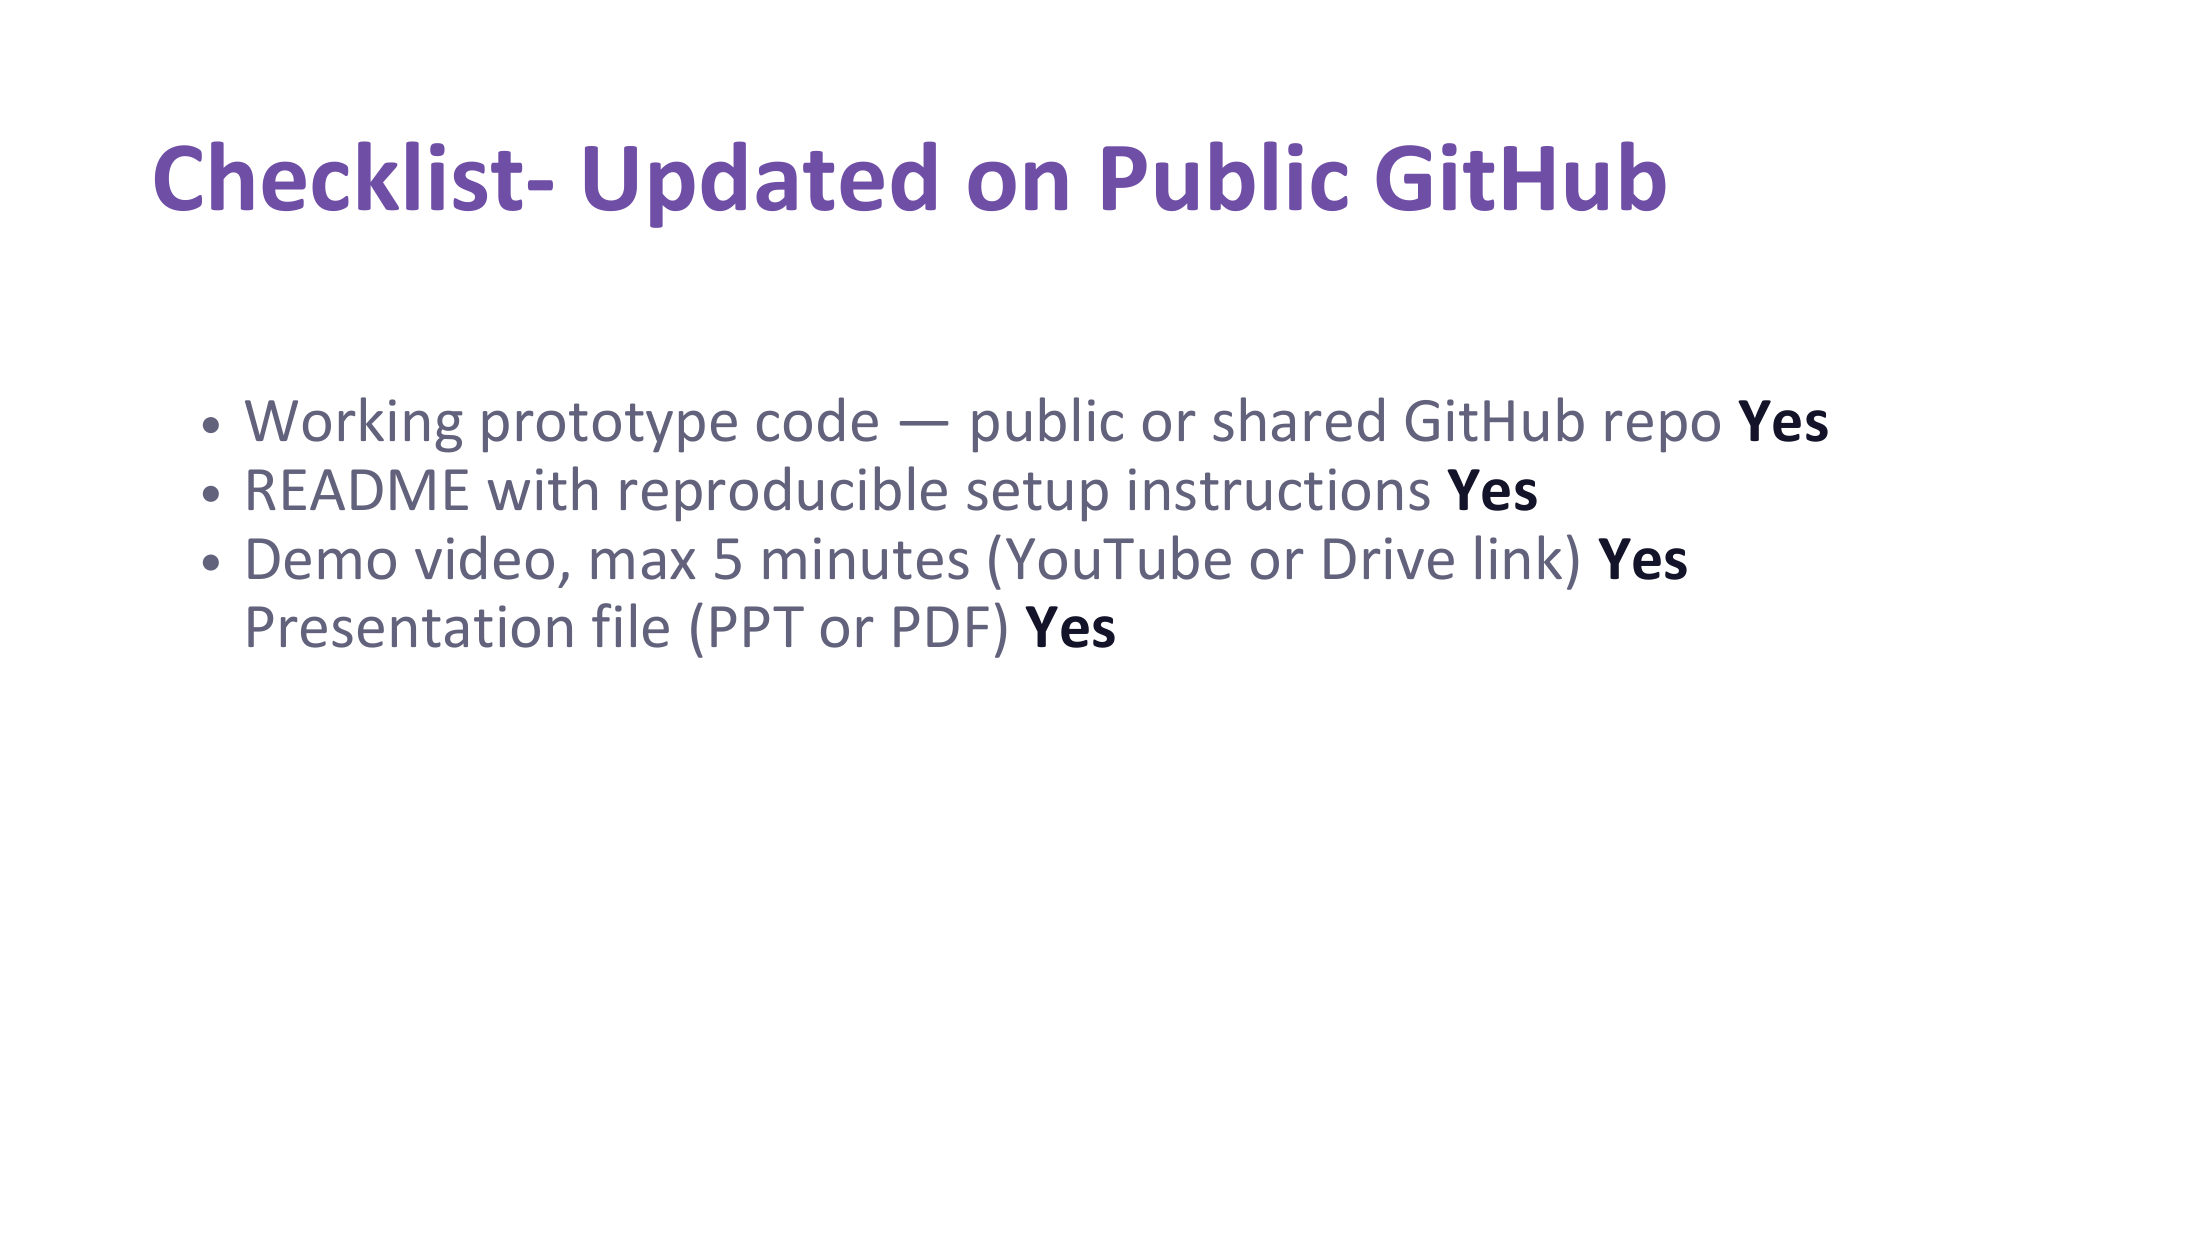
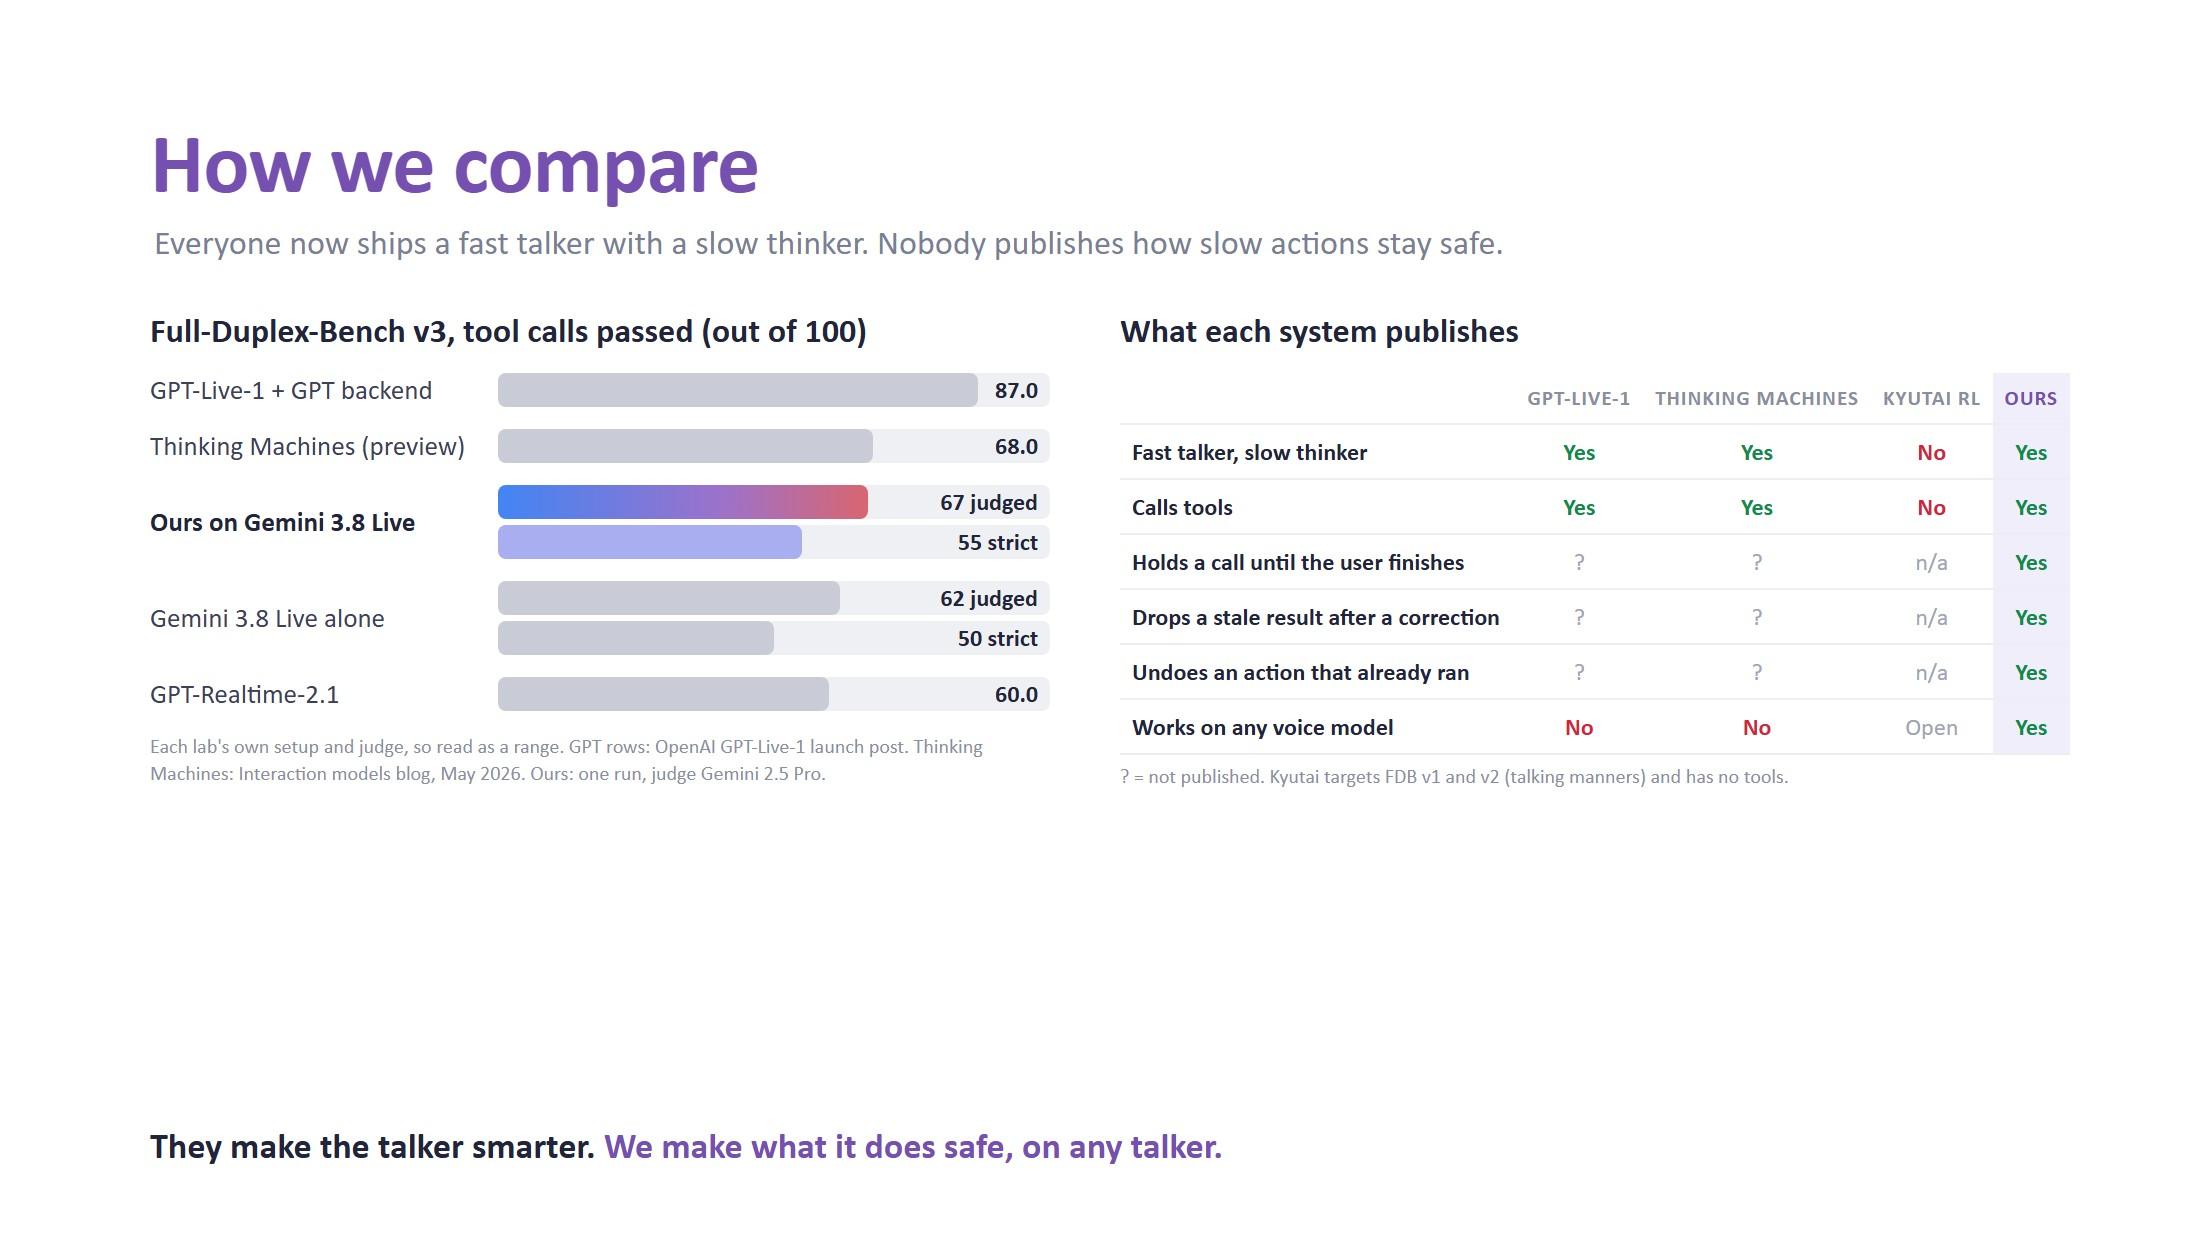
Add competitor comparison section and slide 13
Adds a How we compare section to the home page with published
Full-Duplex-Bench v3 tool-call scores (GPT-Live-1, Thinking Machines,
GPT-Realtime, ours) and a feature table. Inserts a matching slide 13
and moves the old slides 13 and 14 to 14 and 15.

diff --git a/index.html b/index.html
@@ -142,6 +142,17 @@ b.ours-j { background: linear-gradient(90deg, var(--g1), var(--g2) 60%, var(--g3
 .tile .t { font-size: 13px; color: var(--dim); margin-top: 6px; line-height: 1.4; }
 .tile.ok .n { color: var(--ok); } .tile.bad .n { color: var(--bad); } .tile.hold .n { color: var(--hold); }
 
+/* competitor table */
+.cmp-wrap { overflow-x: auto; margin: 18px 0 14px; border-radius: 16px; box-shadow: 0 0 0 1px var(--line) inset; }
+.cmp { width: 100%; min-width: 640px; border-collapse: collapse; font-size: 13.5px; line-height: 1.4; }
+.cmp th, .cmp td { padding: 10px 12px; text-align: left; vertical-align: top; border-bottom: 1px solid var(--line); }
+.cmp thead th { font-family: var(--mono); font-size: 11px; letter-spacing: .06em; text-transform: uppercase; color: var(--faint); font-weight: 500; }
+.cmp tbody th { font-weight: 600; color: var(--text); width: 26%; }
+.cmp tr:last-child th, .cmp tr:last-child td { border-bottom: 0; }
+.cmp td.y { color: var(--ok); } .cmp td.n { color: var(--bad); } .cmp td.u { color: var(--faint); }
+.cmp .us { background: color-mix(in srgb, var(--accent) 9%, transparent); }
+.cmp thead th.us { color: var(--accent); }
+
 /* car dashboard */
 .dash { border-radius: 20px; overflow: hidden; background: #0f1220; color: #e8eaf2; box-shadow: 0 24px 48px -28px rgba(15,18,32,.7); }
 .dash-top { display: flex; justify-content: space-between; align-items: center; padding: 12px 16px; font-family: var(--mono); font-size: 11px; color: #9aa0b8; border-bottom: 1px solid #22263a; }
@@ -182,7 +193,7 @@ pre code { background: none; padding: 0; font-size: 13px; line-height: 1.7; over
 
 
 <nav class="pill-nav" aria-label="Sections">
-  <a href="#idea">Idea</a><a href="#harness">Harness</a><a href="#results">Results</a><a href="#car">In-car</a><a href="#fallback">Offline</a><a href="#try">Try it</a><a href="blog.html">Write-up</a><a href="slides.html">Slides</a>
+  <a href="#idea">Idea</a><a href="#harness">Harness</a><a href="#results">Results</a><a href="#compare">Compare</a><a href="#car">In-car</a><a href="#fallback">Offline</a><a href="#try">Try it</a><a href="blog.html">Write-up</a><a href="slides.html">Slides</a>
 </nav>
 
 <div class="story" id="top">
@@ -308,6 +319,42 @@ pre code { background: none; padding: 0; font-size: 13px; line-height: 1.7; over
       </div>
     </div>
     <p>Gemini usually waits until it thinks you have finished, so the harness rarely needs to step in. Our gain came from the prompt rules and the identifier rule, which we switched on together. Ten failures were changes of mind after the call had already run. No waiting rule can fix those. They need undo, which the extension below provides.</p>
+  </section>
+
+  <section class="s wrap" id="compare">
+    <h2>How we compare</h2>
+    <p>Three labs now publish voice agents built the way ours is: a fast model talks and listens, and a slower model or layer does the tool work. The chart shows the published Full-Duplex-Bench v3 tool-call scores. Each lab ran its own setup and its own judge, so read the bars as a range, not as one leaderboard.</p>
+    <div class="panel">
+      <div class="legend"><span><i class="sw" style="background: color-mix(in srgb, var(--faint) 35%, var(--soft-2))"></i>Reported by the lab</span><span><i class="sw" style="background: linear-gradient(90deg, var(--g1), var(--g2) 60%, var(--g3))"></i>Ours, judged</span><span><i class="sw" style="background: color-mix(in srgb, var(--accent) 45%, var(--soft-2))"></i>Ours, strict</span></div>
+      <div class="hbars">
+        <div class="hrow"><span class="name">GPT-Live-1 with a GPT backend</span><div class="track"><div><b style="width:87%; background: color-mix(in srgb, var(--faint) 35%, var(--soft-2))"></b><em>87.0</em></div></div></div>
+        <div class="hrow"><span class="name">Thinking Machines interaction model</span><div class="track"><div><b style="width:68%; background: color-mix(in srgb, var(--faint) 35%, var(--soft-2))"></b><em>68.0</em></div></div></div>
+        <div class="hrow"><span class="name"><strong>Our agent on Gemini 3.8 Live</strong></span><div class="track"><div><b class="ours-j" style="width:67%"></b><em>67</em></div><div><b class="strict" style="width:55%"></b><em>55</em></div></div></div>
+        <div class="hrow"><span class="name">Gemini 3.8 Live alone</span><div class="track"><div><b class="judged" style="width:62%"></b><em>62</em></div><div><b class="strict" style="width:50%"></b><em>50</em></div></div></div>
+        <div class="hrow"><span class="name">GPT-Realtime-2.1</span><div class="track"><div><b style="width:60%; background: color-mix(in srgb, var(--faint) 35%, var(--soft-2))"></b><em>60.0</em></div></div></div>
+        <div class="hrow"><span class="name">GPT-Realtime-2</span><div class="track"><div><b style="width:58%; background: color-mix(in srgb, var(--faint) 35%, var(--soft-2))"></b><em>58.0</em></div></div></div>
+      </div>
+      <p class="panel-cap">Full-Duplex-Bench v3, tool-call pass rate out of 100. GPT rows: OpenAI's GPT-Live-1 API launch post (backend "Terra, low"). Thinking Machines: <a href="https://thinkingmachines.ai/blog/interaction-models/">Interaction models</a>, 11 May 2026, research preview. Our rows: one run each, judge Gemini 2.5 Pro in place of GPT-4o.</p>
+    </div>
+
+    <h3>What each system tells you</h3>
+    <p>The scores show who calls the right tool. They do not show what happens when a slow tool is still running and the user changes their mind. That is the part we built, so the table below lists only what each team has published about it.</p>
+    <div class="cmp-wrap">
+      <table class="cmp">
+        <thead><tr><th scope="col"></th><th scope="col">GPT-Live-1</th><th scope="col">Thinking Machines</th><th scope="col">Kyutai Moshi (RL)</th><th scope="col" class="us">Our agent</th></tr></thead>
+        <tbody>
+          <tr><th scope="row">Fast talker, slow thinker</th><td class="y">Yes, delegates to a backend model</td><td class="y">Yes, a background model</td><td class="n">No, one model</td><td class="y us">Yes, Gemini Live plus our planner</td></tr>
+          <tr><th scope="row">Calls tools</th><td class="y">Yes</td><td class="y">Yes</td><td class="n">No</td><td class="y us">Yes</td></tr>
+          <tr><th scope="row">Waits until the user finishes</th><td class="u">Not published</td><td class="u">Not published</td><td class="u">Talking only</td><td class="y us">Yes, holds each call until the turn settles</td></tr>
+          <tr><th scope="row">Drops a stale result after a correction</th><td class="u">Not published</td><td class="u">Times when to speak a result</td><td class="n">No tools</td><td class="y us">Yes, by plan version</td></tr>
+          <tr><th scope="row">Undoes an action that already ran</th><td class="u">Not published</td><td class="u">Not published</td><td class="n">No tools</td><td class="y us">Yes, newest step first</td></tr>
+          <tr><th scope="row">Hands off after repeated failures</th><td class="u">Not published</td><td class="u">Not published</td><td class="n">No tools</td><td class="y us">Yes, after two failures</td></tr>
+          <tr><th scope="row">Works on any voice model</th><td class="n">OpenAI only</td><td class="n">Own model</td><td class="y">Open weights</td><td class="y us">Yes, a layer outside the model</td></tr>
+          <tr><th scope="row">Available</th><td class="y">Paid API</td><td class="u">Research preview</td><td class="y">Free, 8B weights</td><td class="y us">Open source</td></tr>
+        </tbody>
+      </table>
+    </div>
+    <p class="fine">"Not published" means that we found no public description, not that the feature is missing. Kyutai's models target Full-Duplex-Bench v1 and v2 (talking manners) and do not call tools. ByteDance SeedRealtime is left out: it is available only in the Doubao app and publishes no benchmark.</p>
   </section>
 
   <section class="s wrap" id="car">

diff --git a/slides.html b/slides.html
@@ -69,13 +69,13 @@ h1 { font-family: var(--display); font-weight: 800; font-size: clamp(28px, 4.5vw
   </div>
 
   <div class="viewer" id="viewer">
-    <div class="frame"><img id="slide" src="slides/slide-01.jpg" alt="Slide 1 of 14"></div>
+    <div class="frame"><img id="slide" src="slides/slide-01.jpg" alt="Slide 1 of 15"></div>
     <button class="nav-zone prev" type="button" id="prev" aria-label="Previous slide"></button>
     <button class="nav-zone next" type="button" id="next" aria-label="Next slide"></button>
   </div>
   <div class="bar">
-    <span class="count" id="count">1 / 14</span>
-    <div class="progress"><b id="prog" style="width: 7.1%"></b></div>
+    <span class="count" id="count">1 / 15</span>
+    <div class="progress"><b id="prog" style="width: 6.7%"></b></div>
     <span class="count">← → keys, or swipe</span>
   </div>
   <div class="thumbs" id="thumbs" role="group" aria-label="All slides"></div>
@@ -83,7 +83,7 @@ h1 { font-family: var(--display); font-weight: 800; font-size: clamp(28px, 4.5vw
 </main>
 <script>
 (function () {
-  var N = 14, i = 0;
+  var N = 15, i = 0;
   var img = document.getElementById("slide"), count = document.getElementById("count"), prog = document.getElementById("prog");
   var thumbs = document.getElementById("thumbs"), viewer = document.getElementById("viewer");
   function src(k) { return "slides/slide-" + String(k + 1).padStart(2, "0") + ".jpg"; }
